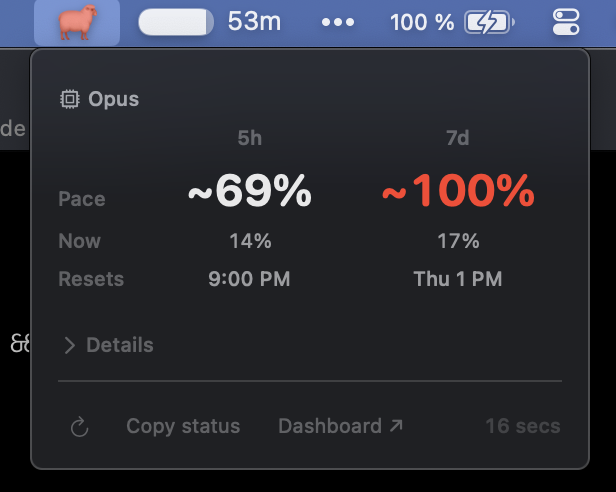
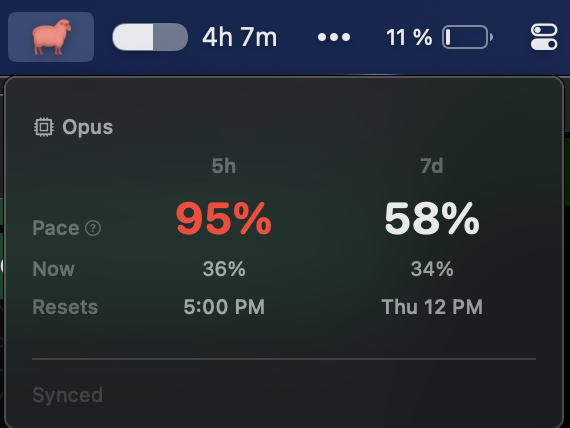
docs: update screenshot and remove stale feature references
New screenshot reflects current UI. Remove references to collapsible
details and quick actions (both removed in earlier simplification).

diff --git a/README.md b/README.md
@@ -23,11 +23,9 @@ If the sheep is calm, you never need to click it.
 
 ## What You See When You Click
 
-- **Pace projections** — the big numbers answer "will I run out?" for both quota windows (5h and 7d), independently colored by severity. Pace leads because it's the actionable signal.
+- **Pace projections** — the big numbers answer "will I run out?" for both quota windows (5h and 7d), independently colored by severity. Pace leads because it's the actionable signal. >100% means you'll get locked before reset.
 - **Current utilization** — grounding context below the projections. Where you are now vs. where you're heading.
 - **Reset times** — when each window resets, so you can plan around it.
-- **Collapsible details** — Sonnet 7d utilization and extra usage spend. Hidden when empty. Collapsed by default.
-- **Quick actions** — refresh data, copy status to clipboard, open the Anthropic dashboard.
 
 ## Notifications
 
